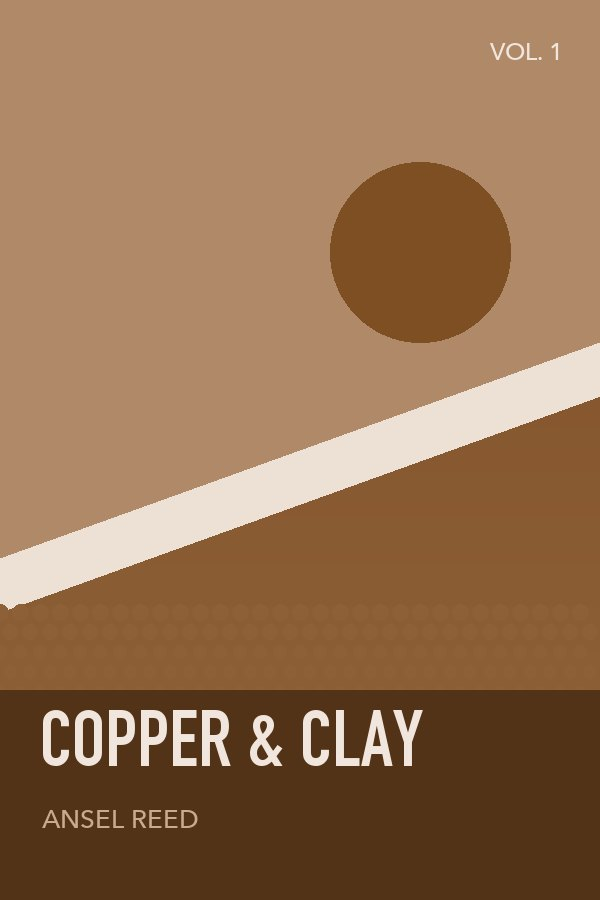
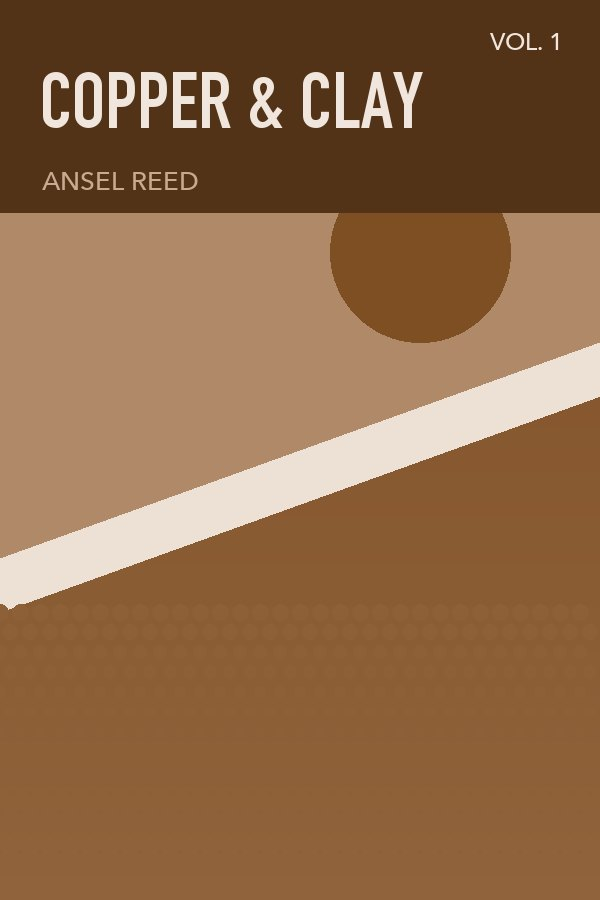
Covers: title band at the top so the app's library overlay doesn't collide with it (1.1)

diff --git a/sources/demo/main.js b/sources/demo/main.js
@@ -1,6 +1,6 @@
 /**
  * @name Demo Source
- * @version 1.0
+ * @version 1.1
  * @lang en
  *
  * Invented series with generated artwork, for store screenshots and demos. Nothing here is

diff --git a/tools/main.template.js b/tools/main.template.js
@@ -1,6 +1,6 @@
 /**
  * @name Demo Source
- * @version 1.0
+ * @version 1.1
  * @lang en
  *
  * Invented series with generated artwork, for store screenshots and demos. Nothing here is

diff --git a/tools/generate.py b/tools/generate.py
@@ -151,15 +151,17 @@ def cover(entry, index):
             break
         size -= 4
     lines = wrap(title, title_font, W - 80, d)
+    # The title band sits at the top: the app's Library grid overlays its own title along the
+    # bottom of each cover, so a bottom band would collide with it.
     line_h = int(size * 1.03)
     block_h = line_h * len(lines) + 70
-    top = H - block_h - 40
-    d.rectangle([0, top - 20, W, H], fill=band)
+    top = 72
+    d.rectangle([0, 0, W, top + block_h - 10], fill=band)
     for i, line in enumerate(lines):
         d.text((40, top + i * line_h), line, font=title_font, fill=ink)
     d.text((42, top + len(lines) * line_h + 12), entry["author"].upper(),
            font=font(BODY_FONT, 26), fill=mix(by_luma[1], ink, 0.35))
-    d.text((W - 110, 36), "VOL. 1", font=font(BODY_FONT, 24), fill=ink)
+    d.text((W - 110, 26), "VOL. 1", font=font(BODY_FONT, 24), fill=ink)
 
     img.save(COVERS / f"{entry['slug']}.jpg", quality=86, optimize=True)
 
